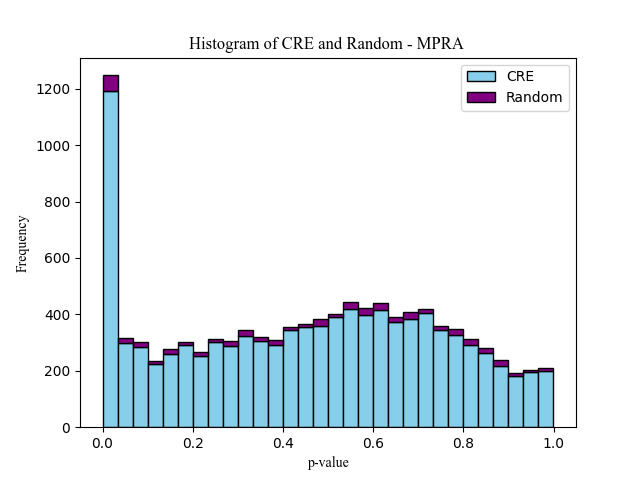
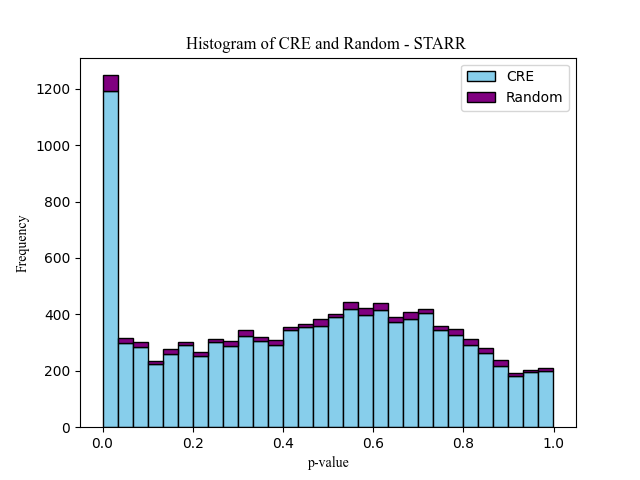
heyyah!

Changed region(s): [[0.2812, 0.0625, 0.7188, 0.125]]

diff --git a/MultiDST001/Simulation-weighted.py b/MultiDST001/Simulation-weighted.py
@@ -74,13 +74,13 @@ df_sigp = pd.DataFrame(df_sigp_dict)
 k = 1
 num_iter = 1
 
-k1_list = [0.0005,0.5,1.2]
+k1_list = [1.5]
 k2_list = [0.5,1.5,3]
 
 for minw in k1_list:
       for maxw in k2_list:
         # Picture it before everything :)
-        # fire_hist(p_values, fire_index, nonfire_index,title=fr"Histogram of p-values (Unweighted)",col1 = 'skyblue', col2 = 'greenyellow')
+        fire_hist(p_values, fire_index, nonfire_index,title=fr"Histogram of p-values (Unweighted)",col1 = 'skyblue', col2 = 'greenyellow')
         if minw=="--" and maxw=="--":
             p_values = og_p_values
         elif minw=="--" or maxw=="--":
@@ -92,7 +92,7 @@ for minw in k1_list:
           p_values = weighted_p[1]
         og_p_values
 
-        # fire_hist(p_values, fire_index, nonfire_index,title=fr"Histogram of p-values (Weighted) under $k_1$={minw} & $k_2$={maxw}",col1 = 'skyblue', col2 = 'greenyellow')
+        fire_hist(p_values, fire_index, nonfire_index,title=fr"Histogram of p-values (Weighted) under $k_1$={minw} & $k_2$={maxw}",col1 = 'skyblue', col2 = 'greenyellow')
 
         results = DSTmulti_testing(p_values, alpha=0.05, weights=False)
         print(results)   
@@ -109,7 +109,7 @@ for minw in k1_list:
         ### Applying the methods
         methods = ['Bonferroni', 'Holm', 'SGoF', 'BH', 'BY', 'Q value', 'True  Signals']
         sig_indices = [sig_bonf_p, sig_holm_p, sig_sgof_p, sig_bh_p, sig_by_p, sig_q,fire_index]
-        plot_heatmap(methods, sig_indices, title=fr"Significant index plot under $k_1$={minw} & $k_2$={maxw}")
+        #  plot_heatmap(methods, sig_indices, title=fr"Significant index plot under $k_1$={minw} & $k_2$={maxw}")
 
         # Create a dictionary to map each list to its name
         indexed_sig_indices = dict(zip(methods, sig_indices))

diff --git a/MultiDST001/Simulation-strategy.py b/MultiDST001/Simulation-strategy.py
@@ -25,7 +25,7 @@ from utils.weighting import multiweights
 np.random.seed(42)
 # 01
 #Simulating Dataset for 500 F and 9500 NF 
-sim1 = simulation_01(42,2000,8000,effect=1.5,n0=15,n1=15,threshold=0.05,show_plot=False,s0=1.0,s1=1.0)
+sim1 = simulation_01(42,2000,8000,effect=1.0,n0=15,n1=15,threshold=0.05,show_plot=False,s0=1.0,s1=1.0)
 p_values, significant_p,fire_index,nonfire_index = sim1[0],sim1[1],sim1[2],sim1[3]
 og_p_values = p_values
 fire_index_og, nonfire_index_og = fire_index, nonfire_index
@@ -71,10 +71,10 @@ df_sigp = pd.DataFrame(df_sigp_dict)
 
 ###################### Try 01 - Applying the methods #################################
 k = 1
-num_iter = 10
+num_iter = 1
 
 # Picture it before everything :)
-# fire_hist(p_values, fire_index, nonfire_index,title="Histogram of p-values",col1 = 'skyblue', col2 = 'greenyellow')
+fire_hist(p_values, fire_index, nonfire_index,title="Histogram of p-values",col1 = 'skyblue', col2 = 'greenyellow')
 
 
 for i in range(num_iter):
@@ -104,7 +104,7 @@ for i in range(num_iter):
       valid_indices = [min(valid_indices1) if len(valid_indices1)>0 else min(low_ind)]
       min_index = valid_indices[0]
       min_list = sig_indices[min_index]
-    #   min_list = sig_bh_p
+      min_list = sig_bh_p
 
       # Create a sublist containing the values corresponding to the first 7 keys
       min_list
@@ -156,7 +156,7 @@ for i in range(num_iter):
 
       # Concatenate the p_values_df DataFrame with your existing DataFrame
       df_sigp = pd.concat([df_sigp, p_sig_new], ignore_index=True)
-      df_sigp
+      df_sigp['BY']
       df_sigp[['Bonferroni','Q-value','SGoF','Power','Total']]
 
       p_values = p_values2

diff --git a/MultiDST001/Dataset-01 MPRA.py b/MultiDST001/Dataset-01 MPRA.py
@@ -70,7 +70,7 @@ p_valuesMPRA = P_MPRA.values.astype(float)
 p_valuesSTARR = P_STARR.values.astype(float)
 
 p_values = p_valuesMPRA
-#p_values = p_valuesSTARR
+p_values = p_valuesSTARR
 
 # Initialize an empty dictionary with empty lists for each column
 df_sigp_dict = {
@@ -136,7 +136,9 @@ sig_indices = [sig_bonf_p, sig_holm_p, sig_sgof_p, sig_bh_p, sig_by_p, sig_q, ra
 # CRE_ind = list(map(lambda x: x[0], CRE_p))
 # rand_ind =  list(map(lambda x: x[0], Rand_p))
 
-fire_hist(p_values, CRE_ind, rand_ind, title="Histogram of CRE and Random - MPRA ",col1 = 'skyblue', col2 = 'purple',left='CRE',right='Random')
+fire_hist(p_values, CRE_ind, rand_ind, title="Histogram of CRE and Random - STARR ",col1 = 'skyblue', col2 = 'purple',left='CRE',right='Random')
+
+
 plot_heatmap(methods, sig_indices, title=f"Significant index plot for STARR p-values")
 
 sig_uncCRE = [p for p in sig_uncorrected if p in CRE_ind]
@@ -356,8 +358,8 @@ og_p_values = p_values
 rejections = []
 
 
-k1_list = [0.001]
-k2_list = [1.05, 3]
+k1_list = [0.005]
+k2_list = [1.05, 1.2]
 
 for minw in k1_list:
       for maxw in k2_list:
